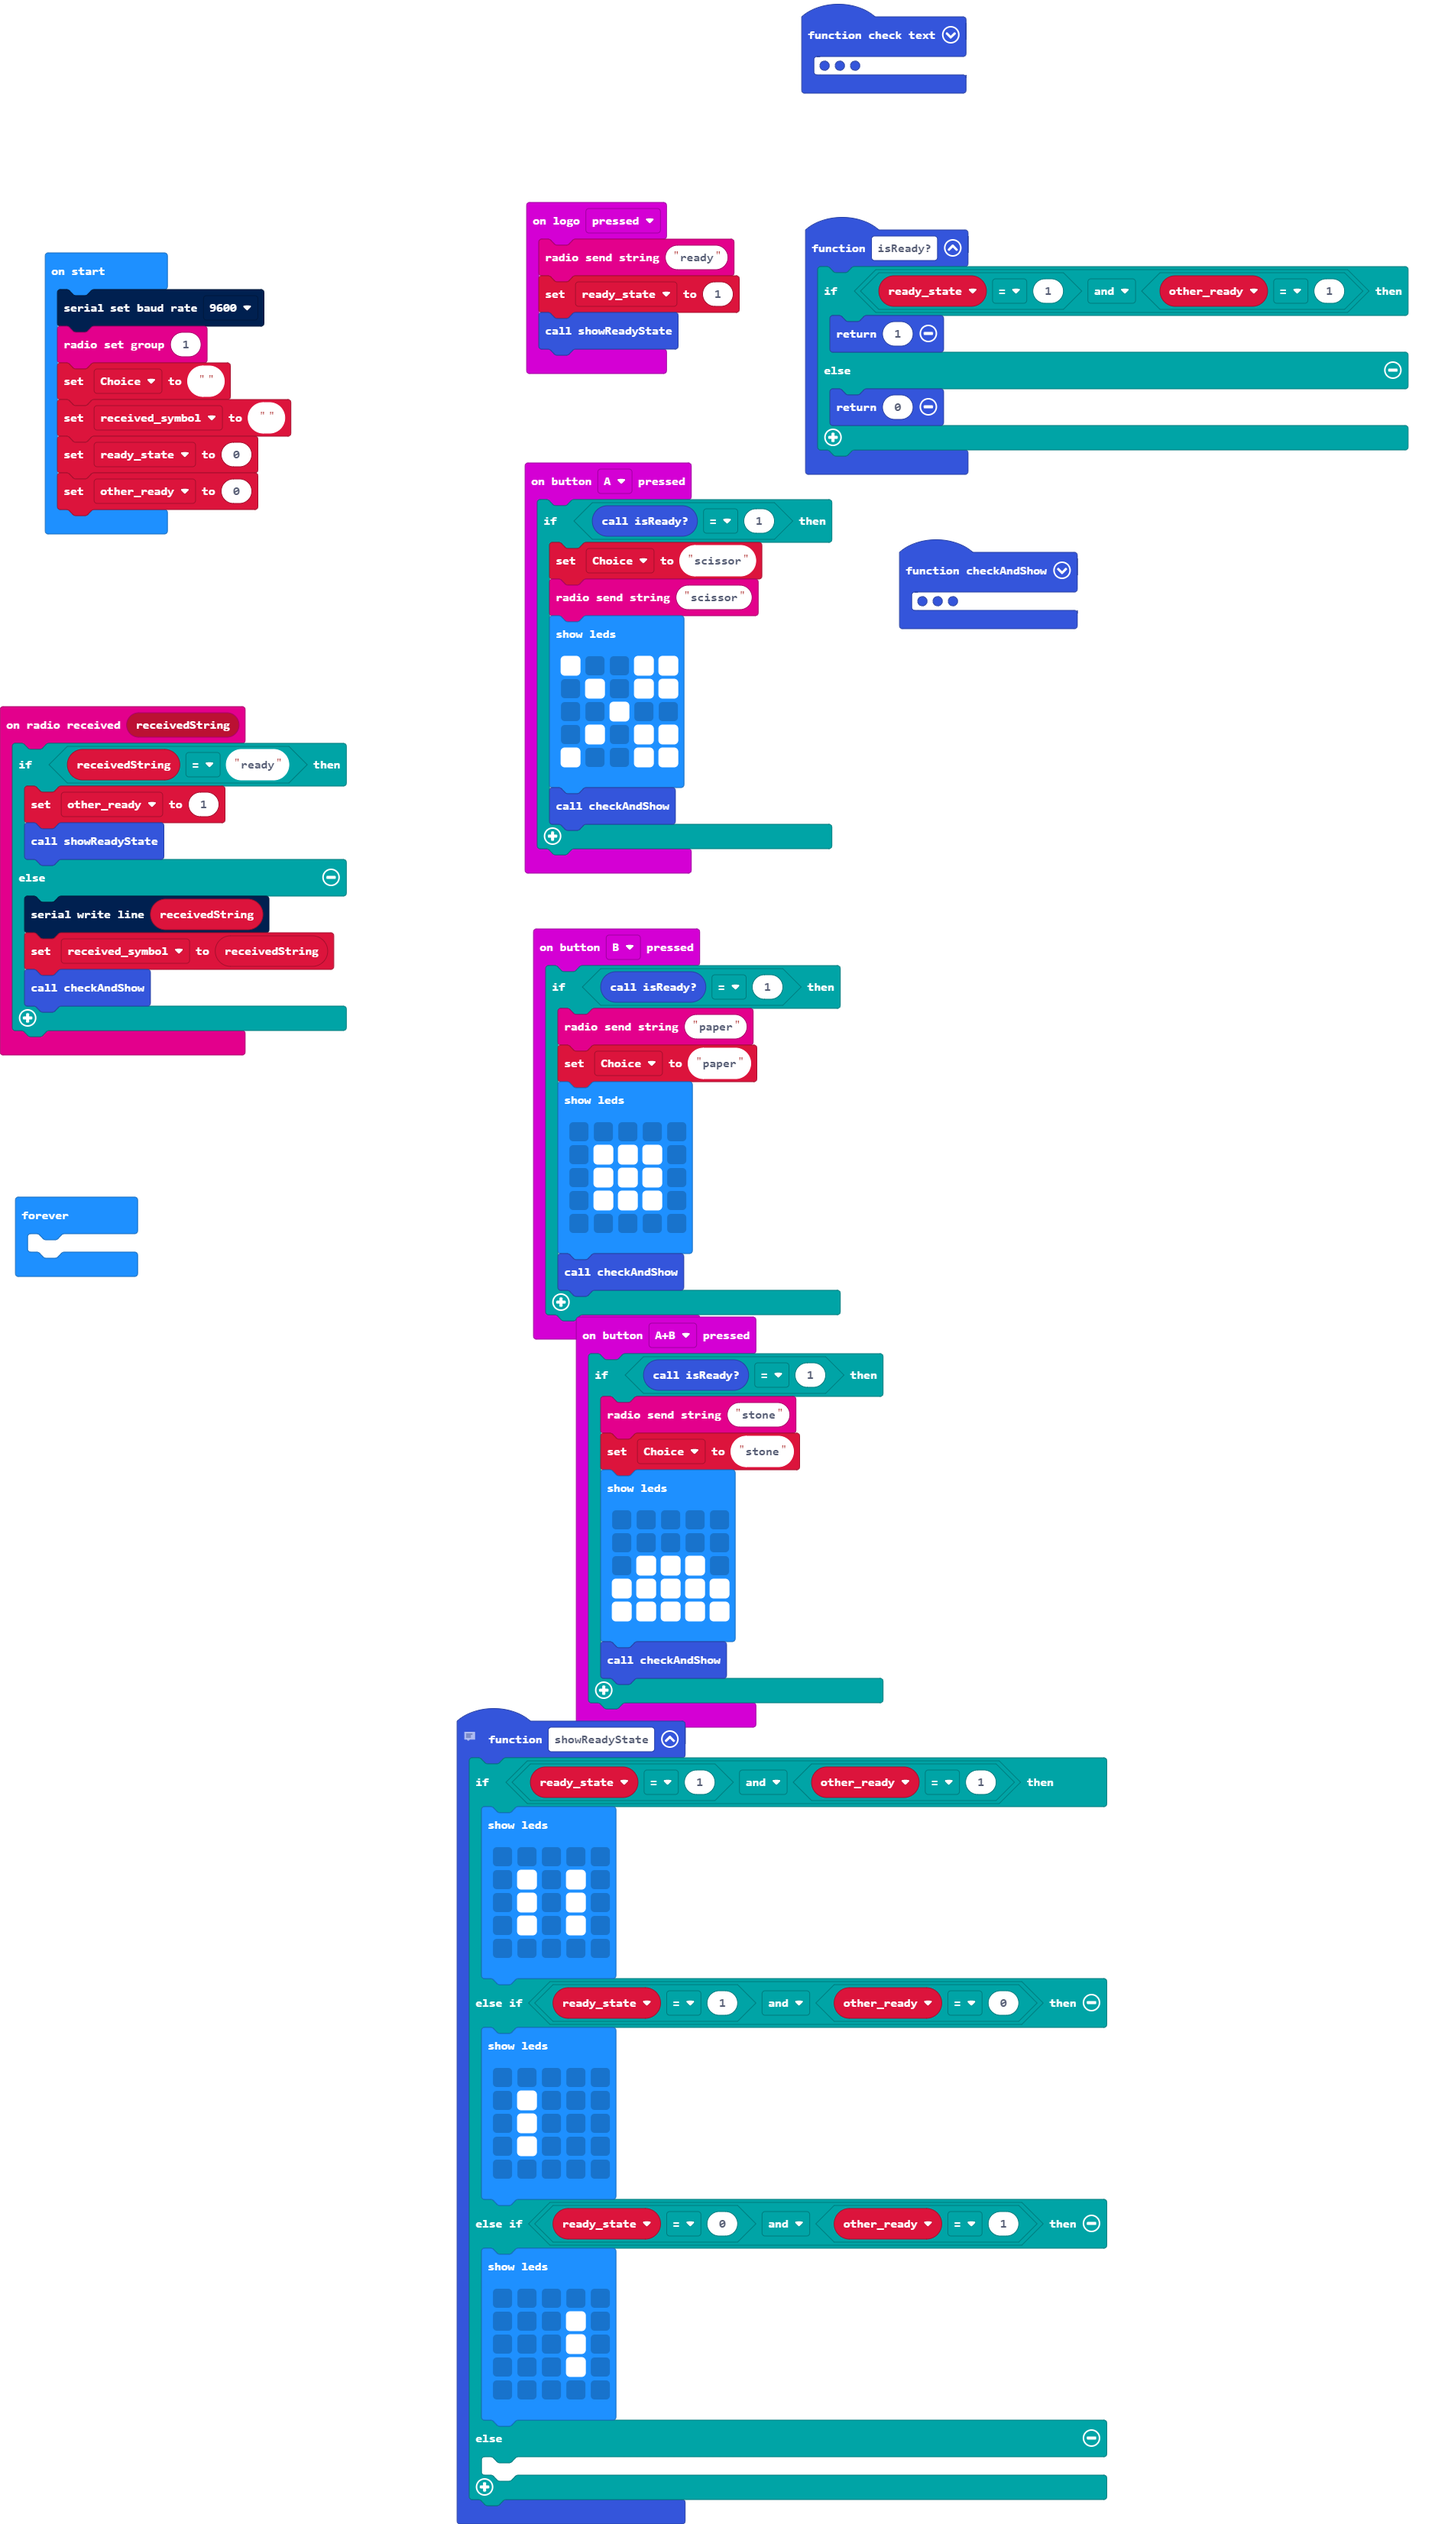
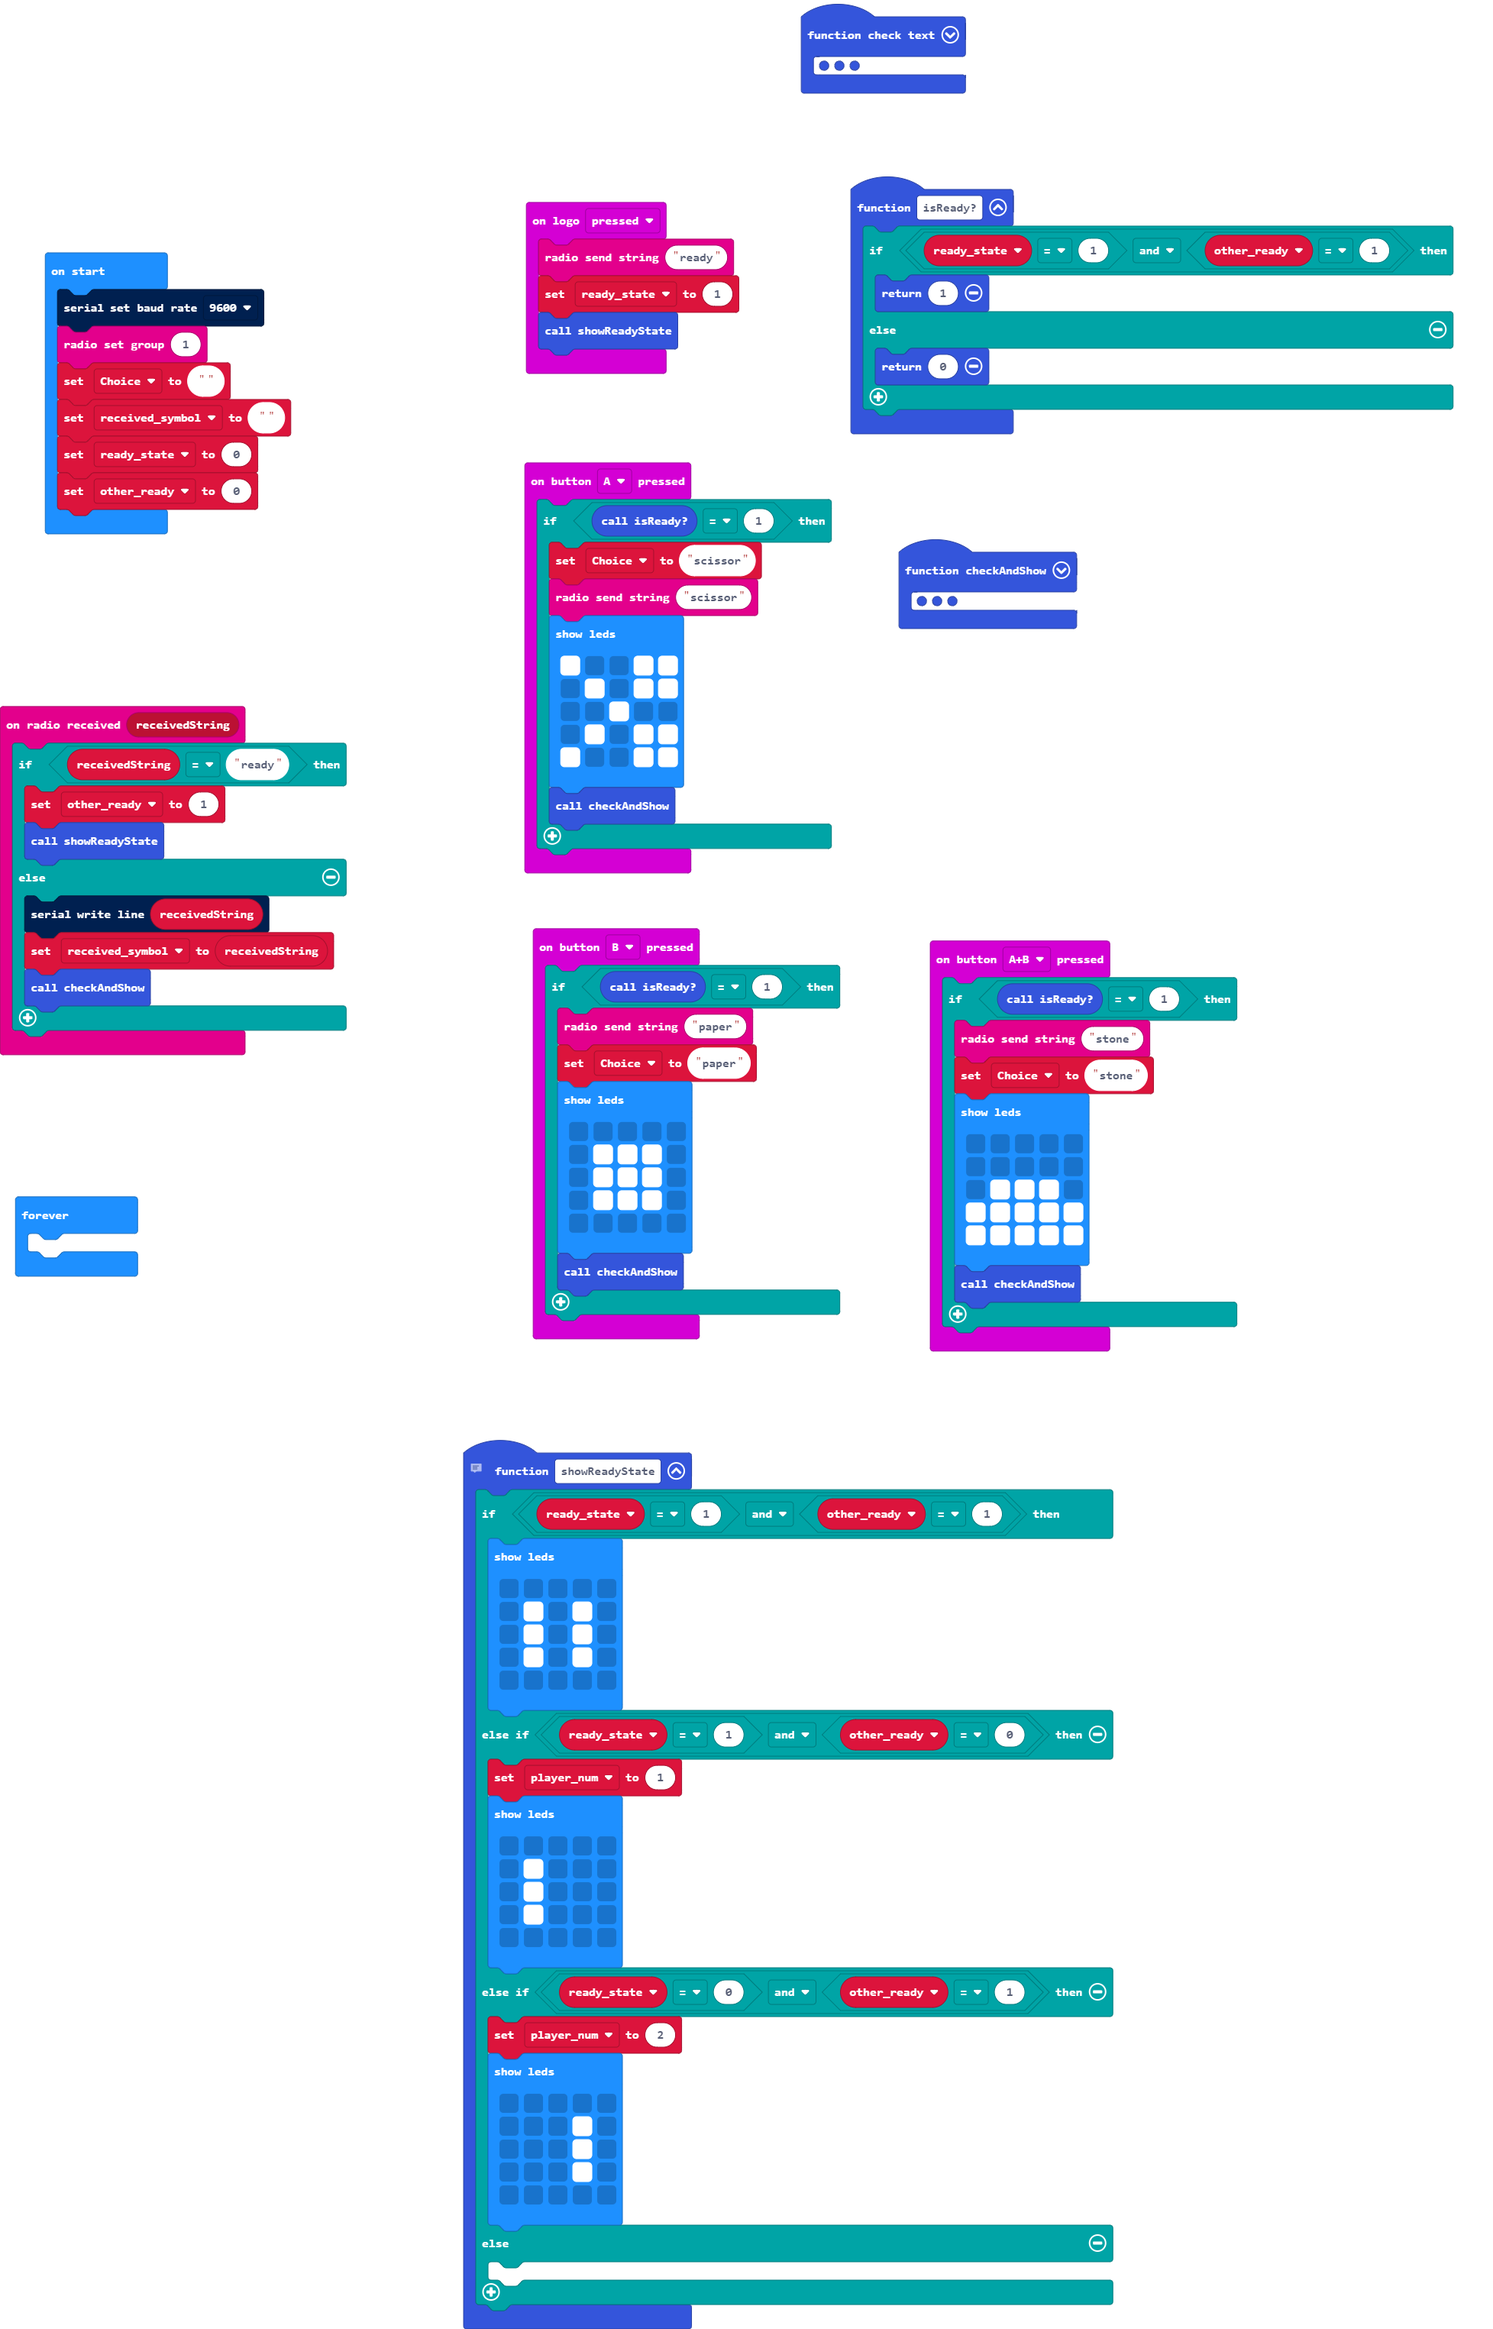
Set player number

Changed region(s): [[0.3113, 0.0, 0.9963, 1.0], [0.0, 0.2804, 0.2491, 0.5608], [0.0311, 0.0935, 0.2179, 0.2493]]

diff --git a/main.ts b/main.ts
@@ -85,6 +85,7 @@ function showReadyState () {
             . . . . .
             `)
     } else if (ready_state == 1 && other_ready == 0) {
+        player_num = 1
         basic.showLeds(`
             . . . . .
             . # . . .
@@ -93,6 +94,7 @@ function showReadyState () {
             . . . . .
             `)
     } else if (ready_state == 0 && other_ready == 1) {
+        player_num = 2
         basic.showLeds(`
             . . . . .
             . . . # .
@@ -147,6 +149,7 @@ input.onLogoEvent(TouchButtonEvent.Pressed, function () {
     ready_state = 1
     showReadyState()
 })
+let player_num = 0
 let result = 0
 let other_ready = 0
 let ready_state = 0
